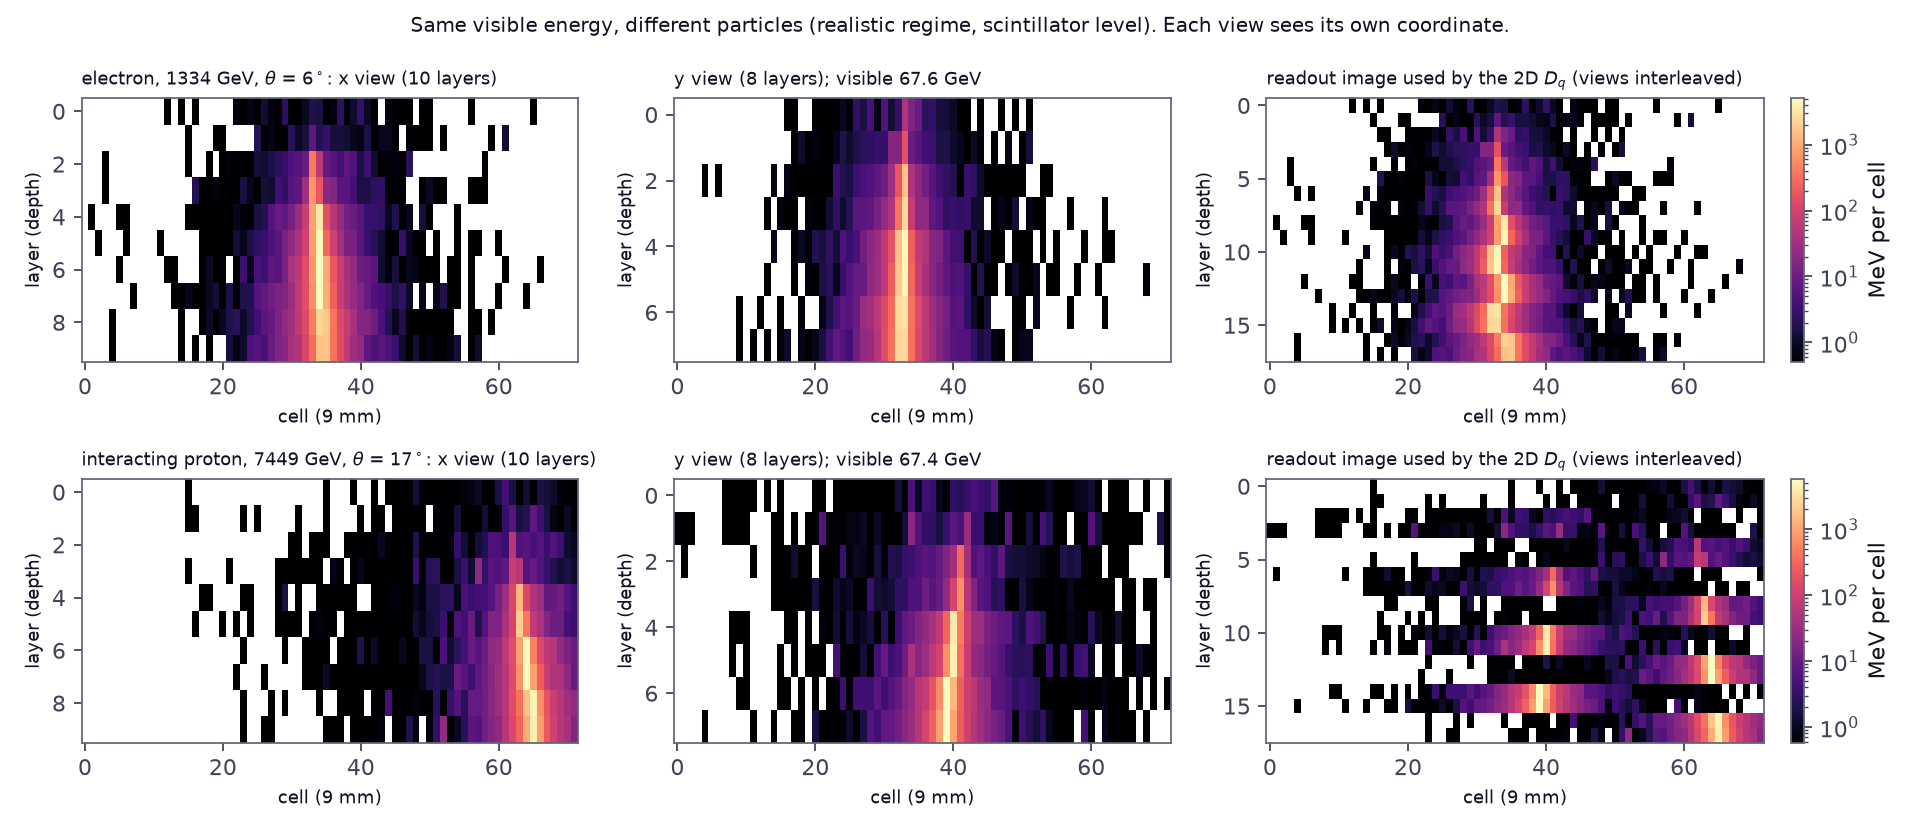
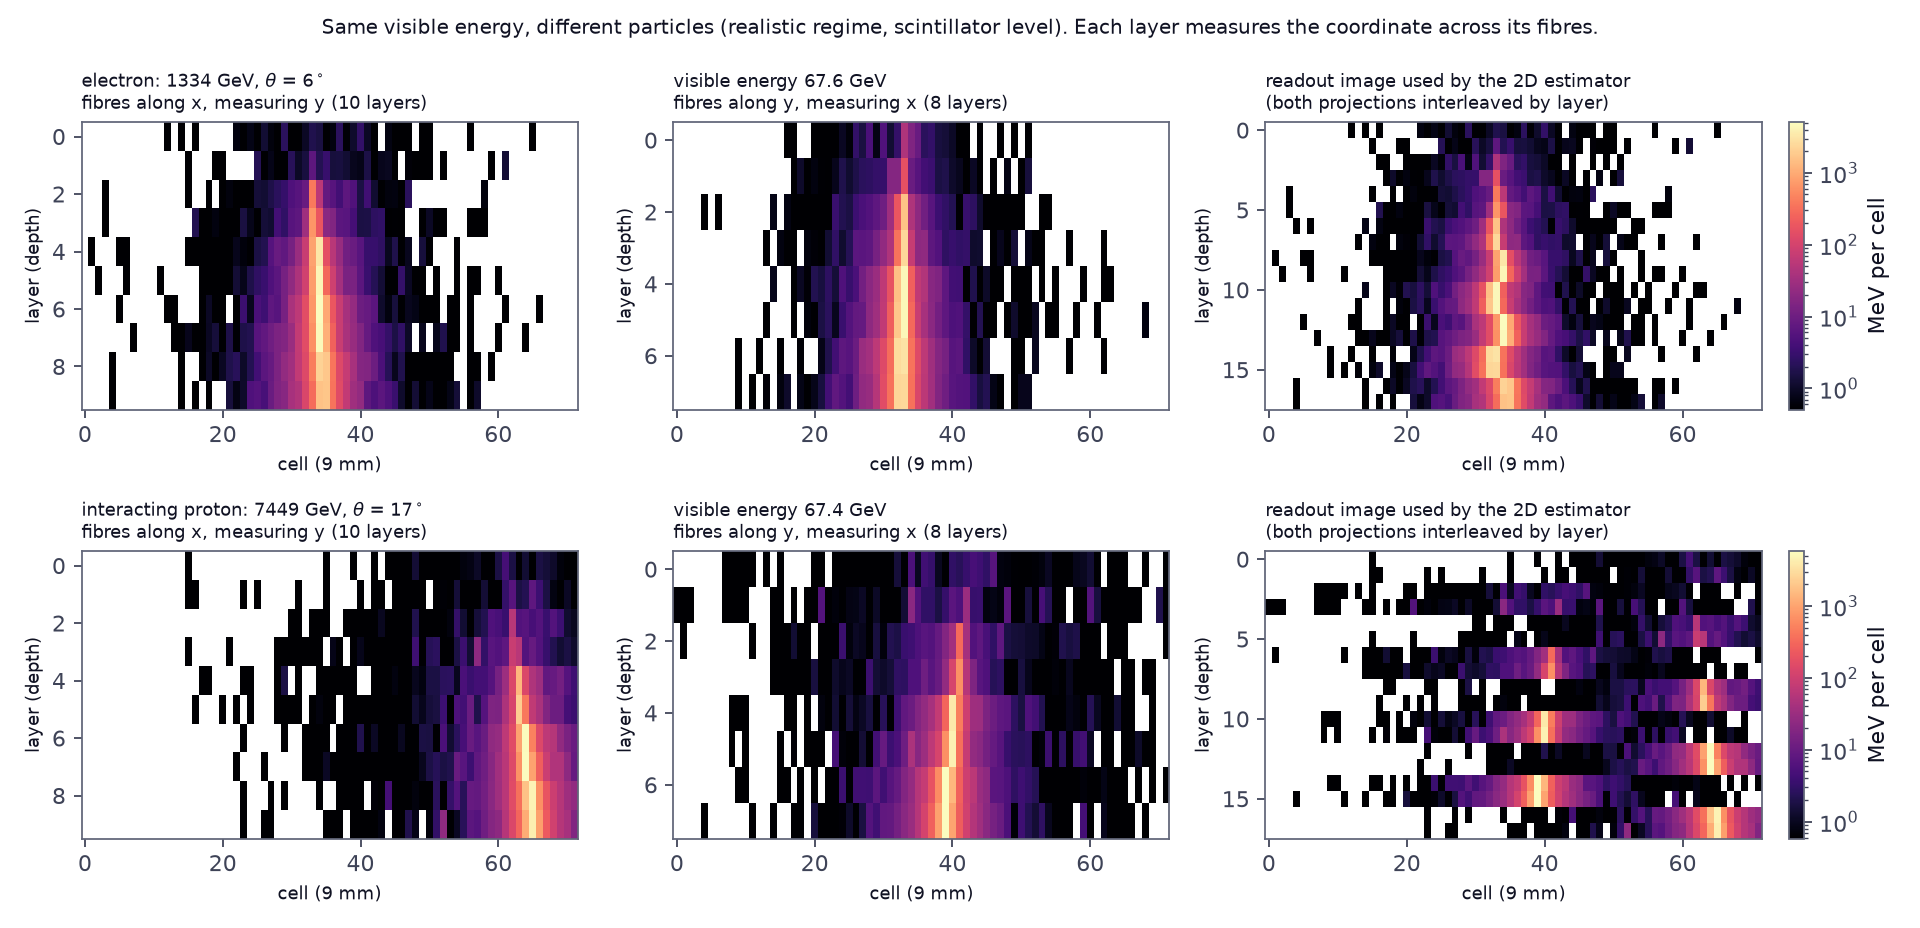
Group-talk figures: name the projections by fibre direction and measured coordinate
Fibres along x measure y and fibres along y measure x (configs/geometry.yaml, readout.measured_axis_for_fiber;
Kounine et al. 2017, Sec. 2: 5 and 4 superlayers with fibres parallel to x and y). P5 and P6 had called the
5-superlayer projection the "x view". The helper is renamed x_fibre_rows with that convention documented; P5 panels
now read "fibres along x, measuring y" and "fibres along y, measuring x", and P6 speaks of the two projections.
Labels only: numbers.json is unchanged. FIGURE_SOURCES.md carries the new image hashes.

diff --git a/src/ams_ecal/geant4_simulation/presentation_figures_2026_11.py b/src/ams_ecal/geant4_simulation/presentation_figures_2026_11.py
@@ -82,9 +82,15 @@ def style(ax, title=None):
         ax.set_title(title, fontsize=10, loc="left")
 
 
-def x_view_rows() -> np.ndarray:
+def x_fibre_rows() -> np.ndarray:
+    """Readout rows whose fibres run along x; these measure y (readout.measured_axis_for_fiber).
+
+    configs/geometry.yaml: superlayer_fiber_axes = [x, y, x, ...], two readout rows per superlayer, so 5 superlayers
+    (10 rows) have fibres along x and measure y, and 4 superlayers (8 rows) have fibres along y and measure x
+    (Kounine et al. 2017, Sec. 2: 5 and 4 superlayers with fibres parallel to the x and y axes).
+    """
     rows = np.arange(LAYERS)
-    return ((rows // 2) % 2) == 0  # superlayers alternate starting with x (geometry.py)
+    return ((rows // 2) % 2) == 0
 
 
 def fixed_electrons(energy: int) -> dict:
@@ -258,8 +264,8 @@ def fig_event_displays(electrons, protons):
     e_row = ie[np.argmin(np.abs(vis_e - target))]
     vis_p = ev_p.readout_grid_mev[ip].sum(axis=(1, 2))
     p_row = ip[np.argmin(np.abs(vis_p - target))]
-    xv = x_view_rows()
-    fig, axes = plt.subplots(2, 3, figsize=(12, 5.2), gridspec_kw={"width_ratios": [1, 1, 1.1]})
+    xv = x_fibre_rows()
+    fig, axes = plt.subplots(2, 3, figsize=(12, 5.8), gridspec_kw={"width_ratios": [1, 1, 1.1]})
     for r, (ev, row, lab) in enumerate(((ev_e, e_row, "electron"), (ev_p, p_row, "interacting proton"))):
         g = ev.readout_grid_mev[row].astype(float)
         E = ev.primary_energy_gev[row]
@@ -271,14 +277,15 @@ def fig_event_displays(electrons, protons):
         axes[r, 0].imshow(np.where(g[xv] > 0, g[xv], np.nan), **kw)
         axes[r, 1].imshow(np.where(g[~xv] > 0, g[~xv], np.nan), **kw)
         im = axes[r, 2].imshow(np.where(g > 0, g, np.nan), **kw)
-        axes[r, 0].set_title(rf"{lab}, {E:.0f} GeV, $\theta$ = {th:.0f}$^\circ$: x view (10 layers)", fontsize=8, loc="left")
-        axes[r, 1].set_title(f"y view (8 layers); visible {g.sum() / 1000:.1f} GeV", fontsize=8, loc="left")
-        axes[r, 2].set_title(r"readout image used by the 2D $D_q$ (views interleaved)", fontsize=8, loc="left")
+        axes[r, 0].set_title(rf"{lab}: {E:.0f} GeV, $\theta$ = {th:.0f}$^\circ$" "\nfibres along x, measuring y (10 layers)", fontsize=8, loc="left")
+        axes[r, 1].set_title(f"visible energy {g.sum() / 1000:.1f} GeV\nfibres along y, measuring x (8 layers)", fontsize=8, loc="left")
+        axes[r, 2].set_title("readout image used by the 2D estimator\n(both projections interleaved by layer)", fontsize=8, loc="left")
         for a in axes[r]:
             a.set_xlabel("cell (9 mm)", fontsize=8)
             a.set_ylabel("layer (depth)", fontsize=8)
         fig.colorbar(im, ax=axes[r, 2], label="MeV per cell", fraction=0.04)
-    fig.suptitle("Same visible energy, different particles (realistic regime, scintillator level). Each view sees its own coordinate.", fontsize=9)
+    fig.suptitle("Same visible energy, different particles (realistic regime, scintillator level). "
+                 "Each layer measures the coordinate across its fibres.", fontsize=9)
     fig.tight_layout()
     fig.savefig(OUT / "P5_event_displays_views.png", dpi=160)
     plt.close(fig)
@@ -289,7 +296,7 @@ def fig_event_displays(electrons, protons):
 
 
 def fig_view_offset(electrons, protons):
-    xv = x_view_rows()
+    xv = x_fibre_rows()
     cols = np.arange(CELLS)
     fig, ax = plt.subplots(figsize=(5.5, 3.6))
     for parts, col, lab in ((electrons, NAVY, "electrons"), (protons, AMBER, "interacting protons")):
@@ -304,10 +311,10 @@ def fig_view_offset(electrons, protons):
         d = np.concatenate(d)
         ax.hist(d, bins=np.arange(0, 66, 2), histtype="step", lw=1.5, color=col, density=True, label=f"{lab} (median {np.median(d):.0f} cells)")
         numbers[f"view_centroid_offset_median_cells_{lab.split()[-1]}"] = round(float(np.median(d)), 1)
-    ax.set_xlabel("|x-view centre - y-view centre| in the interleaved image (cells)")
+    ax.set_xlabel("distance between the shower centres of the two projections\nin the interleaved image (cells)")
     ax.set_ylabel("density")
     ax.legend(frameon=False, fontsize=8)
-    style(ax, "Full-face entry separates the two views in the readout image")
+    style(ax, "Full-face entry separates the two projections in the readout image")
     fig.tight_layout()
     fig.savefig(OUT / "P6_view_offset_in_readout_image.png", dpi=160)
     plt.close(fig)

diff --git a/results/presentation_2026_11/FIGURE_SOURCES.md b/results/presentation_2026_11/FIGURE_SOURCES.md
@@ -12,12 +12,12 @@ All numbers the figures report are written to `numbers.json` in the same folder;
 
 | Slide | Figure | Function | Inputs | sha256 (16) |
 |---|---|---|---|---|
-| Electron and proton, same visible energy | P5 event displays per view | `fig_event_displays` | `data/geant4_realistic_regime_powered_{electron,proton}` | 05038ac7f3175e1b |
+| Electron and proton, same visible energy | P5 event displays per view | `fig_event_displays` | `data/geant4_realistic_regime_powered_{electron,proton}` | da0f00b203415118 |
 | Check 1: where electron showers peak | P1 longitudinal profile and shower maximum | `fig_longitudinal` | `data/geant4_electron_sample/baseline/E{10,20,50,100}GeV` | 8b9e7b61042d5136 |
 | Check 2: energy response and leakage | P2 resolution and visible fraction | `fig_resolution` | same electrons; Poisson seed 20261112 | 8f76f62d9103e520 |
 | Check 3: proton interactions (left) | P3 first-interaction depth | `fig_proton_interaction` | `data/geant4_proton_pilot/baseline/E{10,20,50,100}GeV` | 4b7d0aa3e7e88417 |
 | Check 3: proton interactions (right) | P4 visible fraction by band | `fig_visible_fraction_bands` | realistic-regime pilot and powered samples, fiducial | 9eed1cd0c9ac8b0d |
-| The 2D estimator mixed the two views | P6 view offset | `fig_view_offset` | same realistic-regime samples | a6eadbffd8312e4b |
+| The 2D estimator mixed the two projections | P6 view offset | `fig_view_offset` | same realistic-regime samples | a53f714145c1a80c |
 | A finite-range slope, not a fractal dimension | P7 box counting, one event | `fig_box_counting` | one 0.8–2 TeV powered electron | 943929c0a86d5dac |
 | Look-alikes still differ in D₁ and D₂ | P8 pooled matched dimensions (post hoc) | `fig_pooled_dimensions` | `data/geant4_realistic_regime_pilot_{electron,proton}/pilot`; recomputes the EXP-015 pooled matching (234 pairs, 183 valid; KS 0.087, 0.459, 0.497) | d88184fd20221e28 |
 | Every interval of the test | P9 EXP-019 intervals | `fig_intervals` | `results/realistic_regime/exp019_powered_incremental_classifier/exp019_result.json` (no refit) | 4a80a35c79f8e976 |
